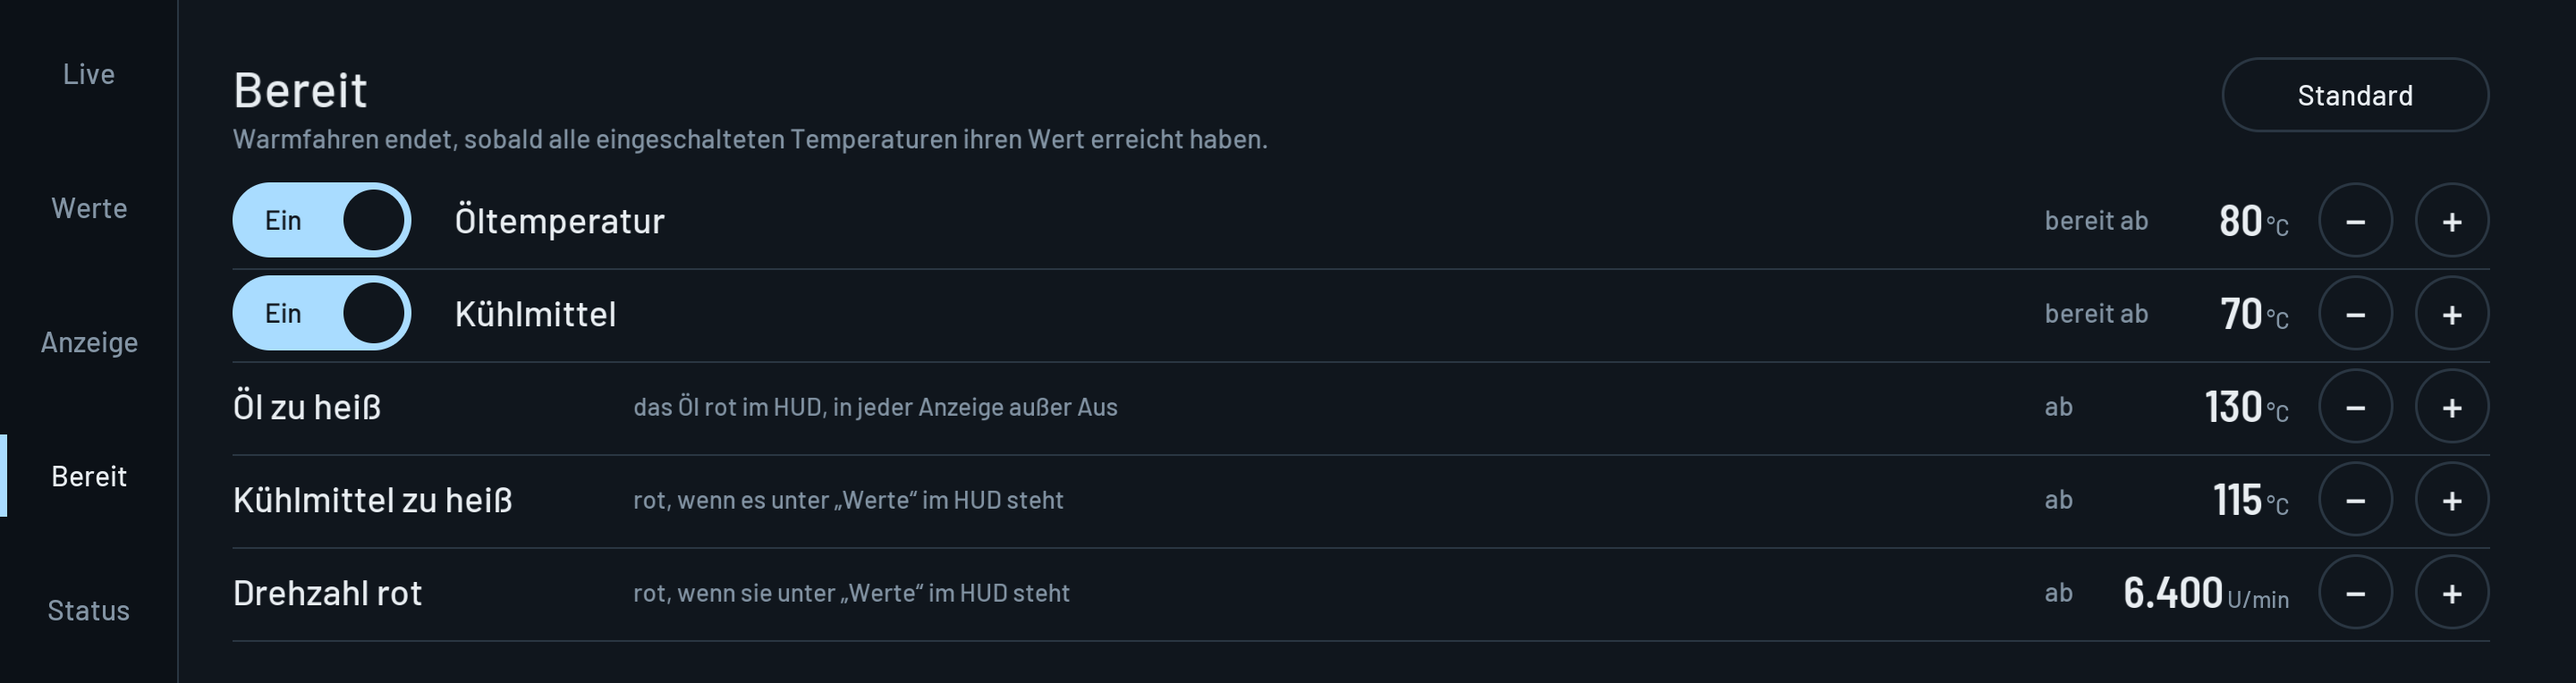
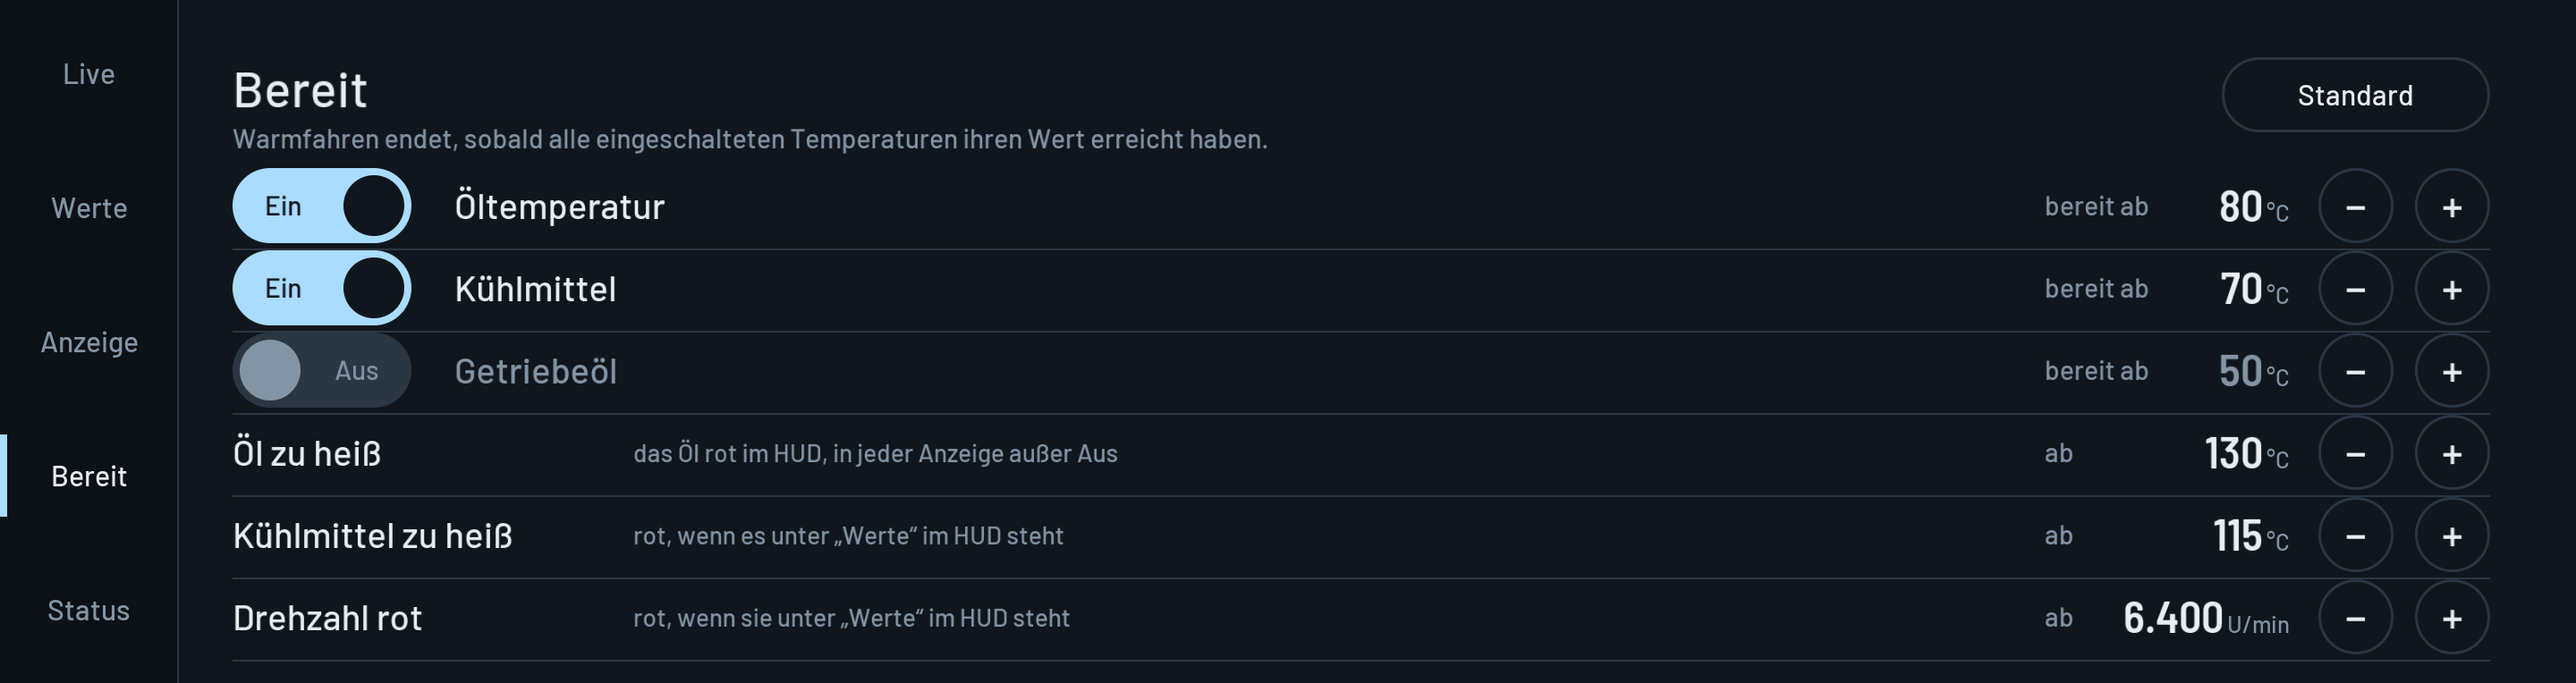
M Suite HUD 0.6.3: Getriebeöl unter Bereit – blau unter der Grenze, Warmfahren wartet darauf
Schalter + Grenze (ab Werk aus, 50 °C, 30–90) wie in M Suite. Eingeschaltet:
unter Werte blau, solange darunter; Warmfahren wartet auch aufs Getriebe
(ein unbekannter Wert hält nicht auf), der Wert wird dafür vom EGS geholt.
Bereit-Seite mit sechs Zeilen (Zeilenhöhe 92).

diff --git a/apps/km_hudtest/tools/test_drawn.js b/apps/km_hudtest/tools/test_drawn.js
@@ -87,6 +87,29 @@ const center = (t) => [t.x + t.w / 2, t.y + t.h / 2];
     touch('up', ...center(sw));
     assert.strictEqual(actions.pop(), 'toggle:oilReadyOn', 'a held switch is still a press');
 
+    // the gearbox oil on Bereit: off by default; switched on it is blue under its value and Warmfahren waits for it
+    {
+        const V = require('../src/values.js');
+        const { Warmup } = require('../src/warmup.js');
+        const ts = dash.targets('ready');
+        ['toggle:gearboxReadyOn', 'dec:gearboxReady', 'inc:gearboxReady'].forEach((id) => assert.ok(ts.some((t) => t.id === id), id));
+        ts.forEach((t) => assert.ok(t.y + t.h <= dash.H, `${t.id} on the screen`));
+        const def = S.defaults();
+        assert.strictEqual(def.gearboxReadyOn, 0);
+        assert.strictEqual(def.gearboxReady, 50);
+        assert.strictEqual(V.tone('gearbox', 35, def), 'normal', 'off: never blue');
+        const on = Object.assign({}, def, { gearboxReadyOn: 1, gearboxReady: 60 });
+        assert.strictEqual(V.tone('gearbox', 45, on), 'cold');
+        assert.strictEqual(V.tone('gearbox', 60, on), 'normal');
+        const w = new Warmup();
+        const view = w.view({ oil: 95, coolant: 90, gearbox: 45 }, on, 0);
+        assert.strictEqual(view.mode, 'warm');
+        assert.strictEqual(view.label, 'Getriebe');
+        assert.ok(/Getriebe noch unter 60/.test(w.words(view, on, { oil: 95, coolant: 90, gearbox: 45 }).text));
+        assert.strictEqual(new Warmup().view({ oil: 95, coolant: 90 }, on, 0).mode, 'ready', 'the gearbox not known does not hold');
+        assert.strictEqual(new Warmup().view({ oil: 95, coolant: 90, gearbox: 45 }, def, 0).mode, 'ready', 'off: not waited for');
+    }
+
     // the controller: a proxy per target, pressing the focused one
     d.setPage('values');
     const idx = dash.targets('values', d.extra).findIndex((t) => t.id === 'cell:rpm');

diff --git a/apps/km_hudtest/src/settings.js b/apps/km_hudtest/src/settings.js
@@ -32,6 +32,10 @@ const ITEMS = Object.freeze([
     { key: 'oilReady', label: 'Öltemperatur', short: 'Öl', unit: '°C', def: 80, min: 50, max: 110, step: 5 },
     { key: 'coolantReadyOn', def: 1, min: 0, max: 1, step: 1, toggle: true },
     { key: 'coolantReady', label: 'Kühlmittel', short: 'Kühlmittel', unit: '°C', def: 70, min: 40, max: 100, step: 5 },
+    // the gearbox oil (EGS, through the gateway): off by default, as in M Suite; on: blue under Werte while under it,
+    // and Warmfahren waits for it too
+    { key: 'gearboxReadyOn', def: 0, min: 0, max: 1, step: 1, toggle: true },
+    { key: 'gearboxReady', label: 'Getriebeöl', short: 'Getriebe', unit: '°C', def: 50, min: 30, max: 90, step: 5 },
     { key: 'oilMax', label: 'Öl zu heiß ab', unit: '°C', def: 130, min: 110, max: 150, step: 5 },
     { key: 'coolantMax', label: 'Kühlmittel zu heiß ab', unit: '°C', def: 115, min: 100, max: 125, step: 1 },
     { key: 'rpmMax', label: 'Drehzahl rot ab', unit: 'U/min', def: 6400, min: 4000, max: 7600, step: 100 },
@@ -49,7 +53,8 @@ const ITEMS = Object.freeze([
 /* The temperatures that can count for "ready": the value, its threshold, its switch. */
 const READY = Object.freeze([
     { value: 'oil', at: 'oilReady', on: 'oilReadyOn', label: 'Öltemperatur', short: 'Öl' },
-    { value: 'coolant', at: 'coolantReady', on: 'coolantReadyOn', label: 'Kühlmittel', short: 'Kühlmittel' }
+    { value: 'coolant', at: 'coolantReady', on: 'coolantReadyOn', label: 'Kühlmittel', short: 'Kühlmittel' },
+    { value: 'gearbox', at: 'gearboxReady', on: 'gearboxReadyOn', label: 'Getriebeöl', short: 'Getriebe' }
 ]);
 
 function dataDir() {

diff --git a/apps/km_hudtest/src/warmup.js b/apps/km_hudtest/src/warmup.js
@@ -77,7 +77,8 @@ class Warmup {
         }
         if (view.mode === 'hot') return { title: 'Öl zu heiß', text: `Ab ${s.oilMax} °C zeigt das HUD die Öltemperatur in Rot.` };
         if (view.mode === 'ready') return { title: 'Bereit', text: 'Kurz im HUD, dann wird es frei.' };
-        return { title: 'Warmfahren', text: `${view.label} noch unter ${view.label === 'Öl' ? s.oilReady : s.coolantReady} °C. Schonend fahren.` };
+        const r = S.READY.find((x) => x.short === view.label);
+        return { title: 'Warmfahren', text: `${view.label} noch unter ${r ? s[r.at] : s.oilReady} °C. Schonend fahren.` };
     }
 }
 

diff --git a/apps/km_hudtest/src/hudtest.js b/apps/km_hudtest/src/hudtest.js
@@ -711,6 +711,8 @@ class HudApp extends ListApp {
         const out = s.mode === 'values' ? S.shown(s).filter((k) => V.byKey(k).src !== 'cds') : [];
         // the oil when the signal has none: warming up, shown, or for the hot warning in Werte
         if (!this._cdsFresh()) out.unshift('oil');
+        // the gearbox oil for Warmfahren while it counts (under Werte it comes when shown)
+        if (s.mode === 'warm' && s.gearboxReadyOn && out.indexOf('gearbox') < 0) out.push('gearbox');
         return out;
     }
 

diff --git a/apps/km_hudtest/src/values.js b/apps/km_hudtest/src/values.js
@@ -37,6 +37,7 @@ function tone(key, v, s) {
     if (!isNum(v)) return 'none';
     if (key === 'oil') return v >= s.oilMax ? 'hot' : s.oilReadyOn && v < s.oilReady ? 'cold' : 'normal';
     if (key === 'coolant') return v >= s.coolantMax ? 'hot' : s.coolantReadyOn && v < s.coolantReady ? 'cold' : 'normal';
+    if (key === 'gearbox') return s.gearboxReadyOn && v < s.gearboxReady ? 'cold' : 'normal';
     if (key === 'rpm') return v >= s.rpmMax ? 'hot' : 'normal';
     return 'normal';
 }

diff --git a/apps/km_hudtest/src/dash.js b/apps/km_hudtest/src/dash.js
@@ -97,8 +97,8 @@ const ALIGN_TEXT = {
 };
 
 /* Bereit: per temperature its switch and its ready value; then where oil, coolant and engine speed turn red. */
-const READY_ROW_H = 104;
-const READY_TOP = 200;
+const READY_ROW_H = 92;      // six rows: three temperatures (oil, coolant, gearbox), three limits
+const READY_TOP = 190;
 const CTRL = 84;
 const STEP_RIGHT = W - PAD;
 const READY_ROWS = S.READY.map((r) => ({ kind: 'ready', r, key: r.at, label: r.label }))
